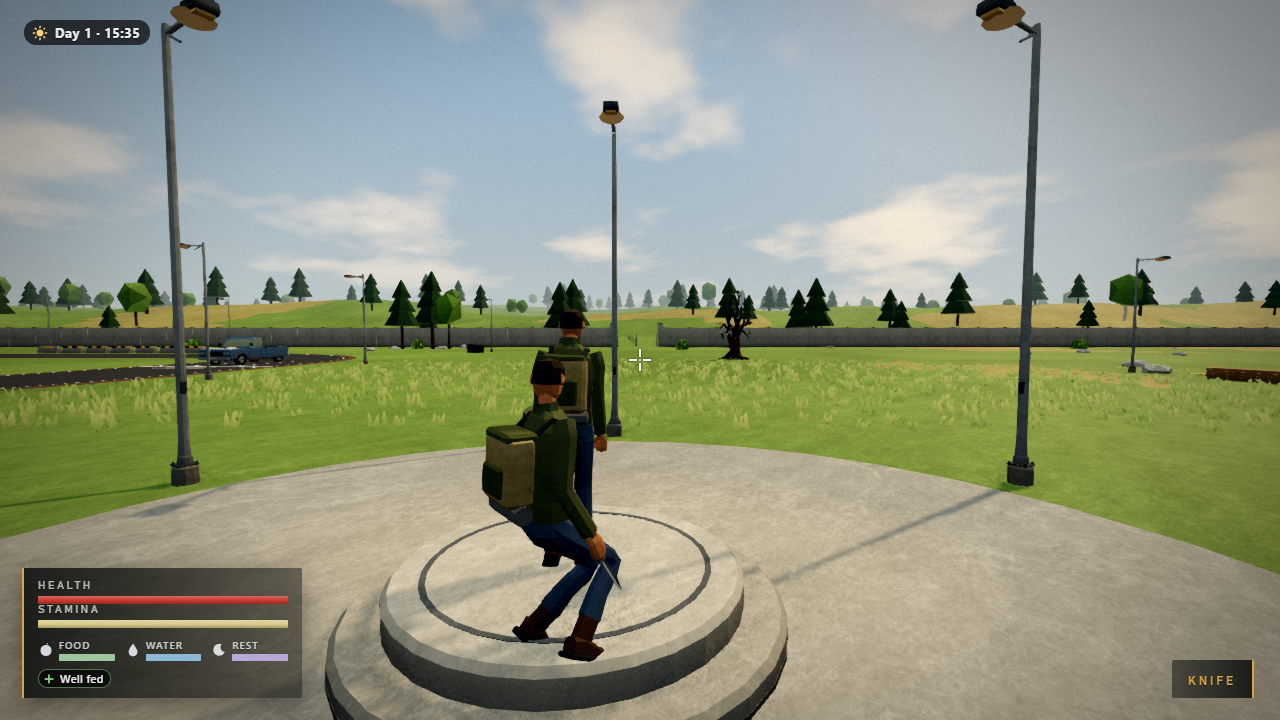
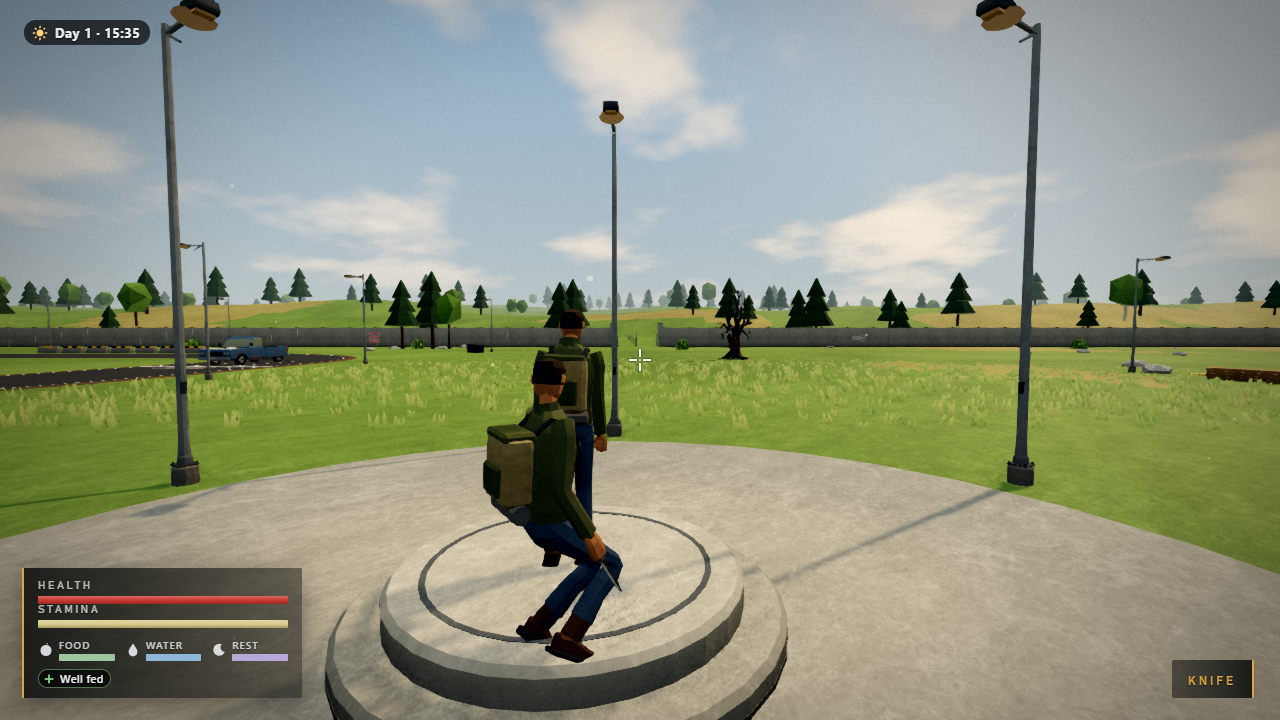
Perimeter wall decals from AI artwork (graffiti, stencils, chalk tallies); credits and progress log

Changed region(s): [[0.4062, 0.6722, 0.5, 0.9167], [0.375, 0.6722, 0.4062, 0.7333], [0.2812, 0.4583, 0.3125, 0.4889]]

diff --git a/src/world/yard/wallDecals.ts b/src/world/yard/wallDecals.ts
@@ -1,0 +1,63 @@
+import { DoubleSide, Mesh, PlaneGeometry, TextureLoader, SRGBColorSpace } from 'three';
+import { MeshStandardNodeMaterial } from 'three/webgpu';
+import { dot, smoothstep, texture, uv, vec3 } from 'three/tsl';
+import type { Game } from '../../core/game';
+import { yard } from '../../content/data/yard';
+import { assetUrl } from '../../engine/assetUrl';
+
+/**
+ * Spray-paint, stencils and chalk on the perimeter wall (AI-generated artwork, see CREDITS.md). The pictures are dark
+ * paint on white; the shader turns white into transparency, so they sit on the wall's own concrete detail and light.
+ */
+type Wall = 'N' | 'E' | 'S' | 'W';
+const DECALS: { tex: string; wall: Wall; t: number; y: number; size: number; roll?: number; strength?: number }[] = [
+  { tex: 'safe_zone', wall: 'W', t: -10, y: 1.55, size: 2.6 },
+  { tex: 'red_x', wall: 'N', t: -62, y: 1.5, size: 2.2, roll: 0.05 },
+  { tex: 'biohazard', wall: 'E', t: -30, y: 1.5, size: 1.7 },
+  { tex: 'evac_arrow', wall: 'E', t: 30, y: 1.45, size: 2.8, roll: -0.03 },
+  { tex: 'graffiti_survive', wall: 'W', t: 32, y: 1.5, size: 2.5, roll: -0.04 },
+  { tex: 'skull_tag', wall: 'E', t: 64, y: 1.4, size: 1.8 },
+  { tex: 'tally_marks', wall: 'N', t: 48, y: 1.3, size: 1.5, strength: 0.7 },
+  { tex: 'evac_arrow', wall: 'S', t: -34, y: 1.45, size: 2.6 },
+  { tex: 'red_x', wall: 'W', t: -52, y: 1.4, size: 1.8, roll: -0.08 },
+  { tex: 'biohazard', wall: 'N', t: 14, y: 1.5, size: 1.5 },
+  { tex: 'graffiti_survive', wall: 'S', t: 40, y: 1.5, size: 2.2, roll: 0.03 },
+];
+
+export async function buildWallDecals(game: Game) {
+  const loader = new TextureLoader();
+  const cache = new Map<string, MeshStandardNodeMaterial | null>();
+  const matFor = async (name: string, strength: number) => {
+    const key = `${name}:${strength}`;
+    if (cache.has(key)) return cache.get(key)!;
+    let m: MeshStandardNodeMaterial | null = null;
+    try {
+      const t = await loader.loadAsync(assetUrl(`assets/textures/decals/${name}.png`));
+      t.colorSpace = SRGBColorSpace;
+      t.anisotropy = 4;
+      const px = texture(t, uv());
+      const lum = dot(px.rgb, vec3(0.2126, 0.7152, 0.0722));
+      m = new MeshStandardNodeMaterial({ transparent: true, depthWrite: false, roughness: 0.95, metalness: 0, side: DoubleSide });
+      m.polygonOffset = true;
+      m.polygonOffsetFactor = -2;
+      m.colorNode = px.rgb.mul(0.78);
+      m.opacityNode = smoothstep(0.86, 0.45, lum).mul(strength);
+    } catch {
+      m = null;
+    }
+    cache.set(key, m);
+    return m;
+  };
+  const h = yard.half - 0.16; // inner face of the 0.3 m wall
+  for (const d of DECALS) {
+    const mat = await matFor(d.tex, d.strength ?? 0.92);
+    if (!mat) continue;
+    const mesh = new Mesh(new PlaneGeometry(d.size, d.size), mat);
+    const [x, z, yaw] = d.wall === 'N' ? [d.t, -h, 0] : d.wall === 'S' ? [d.t, h, Math.PI] : d.wall === 'E' ? [h, d.t, -Math.PI / 2] : [-h, d.t, Math.PI / 2];
+    mesh.position.set(x, d.y, z);
+    mesh.rotation.set(0, yaw, d.roll ?? 0, 'YXZ');
+    mesh.receiveShadow = true;
+    mesh.name = `decal_${d.tex}`;
+    game.scene.add(mesh);
+  }
+}

diff --git a/src/world/yard/index.ts b/src/world/yard/index.ts
@@ -4,6 +4,7 @@ import { buildClutter } from './clutter';
 import { buildGenProps } from './genProps';
 import { buildGround } from './ground';
 import { buildMotes } from './motes';
+import { buildWallDecals } from './wallDecals';
 import { placeYardHouse } from './house';
 import { Kit } from './kit';
 import { setupLighting } from './lighting';
@@ -38,6 +39,7 @@ export async function buildYard(game: Game): Promise<void> {
   placeYardHouse(game);
   buildClutter(game);
   buildMotes(game);
+  await buildWallDecals(game);
   buildLampPools(game);
 }
 

diff --git a/docs/progress/2026-11-13-overnight.md b/docs/progress/2026-11-13-overnight.md
@@ -13,7 +13,9 @@ Screenshots: `docs/audit/screenshots/before/` and `.../after/` (contact sheets `
 7. **Zombies** (`crowd.ts`): bind-pose grime, dirt toward the feet and dried blood from the AI grime texture. World-space detail is on static geometry only (a first version made zombies render white and swim; caught in review and fixed).
 8. **Zombie hit flash:** a white emissive pulse on every bullet or melee hit (new per-instance flash channel in the crowd renderer).
 9. **Held gear and survivor:** weapons get object-space scratches and glossier dark metal; the survivor gets bind-pose cloth wear, boot mud and dust.
-10. **HUD** (`src/ui/hud/hud.ts`): same type and accent as the menus, glass backing for bars and ammo, bevelled bars.
+10. **Ambient motes** (`motes.ts`): dust and pollen by day, fireflies at night, one instanced draw computed in the vertex shader. Night ambient lifted slightly.
+11. **Wall decals** (`wallDecals.ts`): eleven AI-generated spray-paint, stencil and chalk pieces on the perimeter wall (white becomes transparent in the shader).
+12. **HUD** (`src/ui/hud/hud.ts`): same type and accent as the menus, glass backing for bars and ammo, bevelled bars.
 
 ## Tested
 - `npm test`: 49 pass. `npm run build`: passes.
@@ -35,7 +37,7 @@ This monitor is 60 Hz and vsync-capped, so p50 is 16.67 ms before and after in a
 All under the 1.5M triangle and 400 draw-call budgets. Raw: `docs/audit/perf-before.json`, `perf-after.json`.
 
 ## What's left, ranked
-1. **Characters and zombies** still look plain (about 1.9k-triangle flat-colour bodies). Animation is already good. Needs a rigging path: install UniRig (multi-hour Windows CUDA build) or retarget AI meshes with Blender's auto-weights onto the existing rig, then texture. Highest impact left.
+1. **Characters and zombies** still look plain (finding: the shipped GLBs are meshopt-compressed, Blender 4.5 cannot import them; rebuild from `assets/source/zmb/*/build.py` or decompress with `gltf-transform` first. A try at AI body meshes weight-painted to the existing rig with Blender auto-weights is the next experiment) (about 1.9k-triangle flat-colour bodies). Animation is already good. Needs a rigging path: install UniRig (multi-hour Windows CUDA build) or retarget AI meshes with Blender's auto-weights onto the existing rig, then texture. Highest impact left.
 2. **Screen-space AO and sun shafts** (`GTAONode`, `GodraysNode` exist in three). Not tried; measure on a high-refresh display first.
 3. **Zombie hit flash, dust puffs, footstep particles** and more blood variety.
 4. **Retexture the palette-only kit** (house, range, signs) with the same detail pipeline plus wear decals; AI-generated posters and signs.

diff --git a/CREDITS.md b/CREDITS.md
@@ -61,3 +61,5 @@ except for the meshopt decoder that ships with three.js.
 |---|---|---|
 | Detail textures `public/assets/textures/{grass,dirt,concrete,grunge}.png` | z-image-turbo (ComfyUI) | Apache-2.0 |
 | 8 props in `public/assets/models/gen/` (sedan wreck, tent, sandbags, barrels, dead tree, generator, pallets, dumpster): concept picture from z-image-turbo, mesh and texture from Hunyuan3D-2.1, cleaned in Blender (`tools/audit/fit_glb.py`) | z-image-turbo, Hunyuan3D-2.1 | Apache-2.0; Tencent Hunyuan community licence (not valid in the EU, UK and South Korea): owner decision needed, see `docs/progress/2026-11-13-overnight.md` |
+| Wall decals `public/assets/textures/decals/*.png` (spray paint, stencils, chalk tallies) | z-image-turbo | Apache-2.0 |
+| Ambient look: bloom, grade, clouds, grass, motes | original code | MIT |
